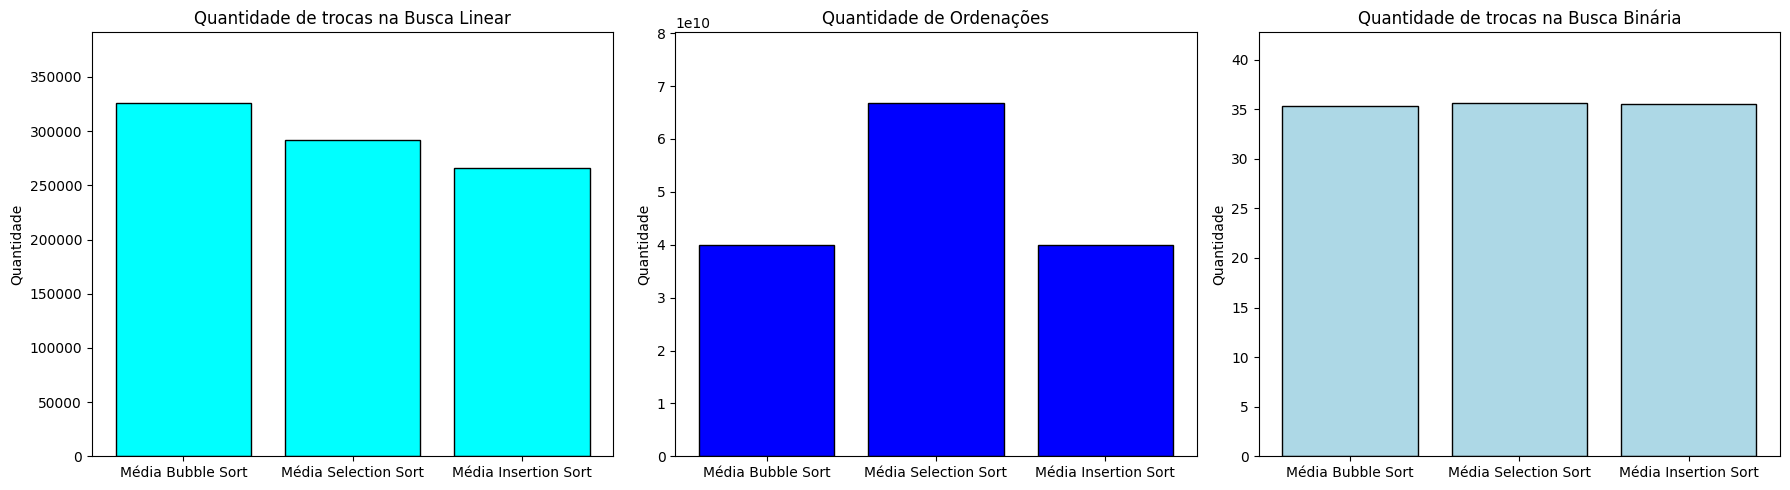
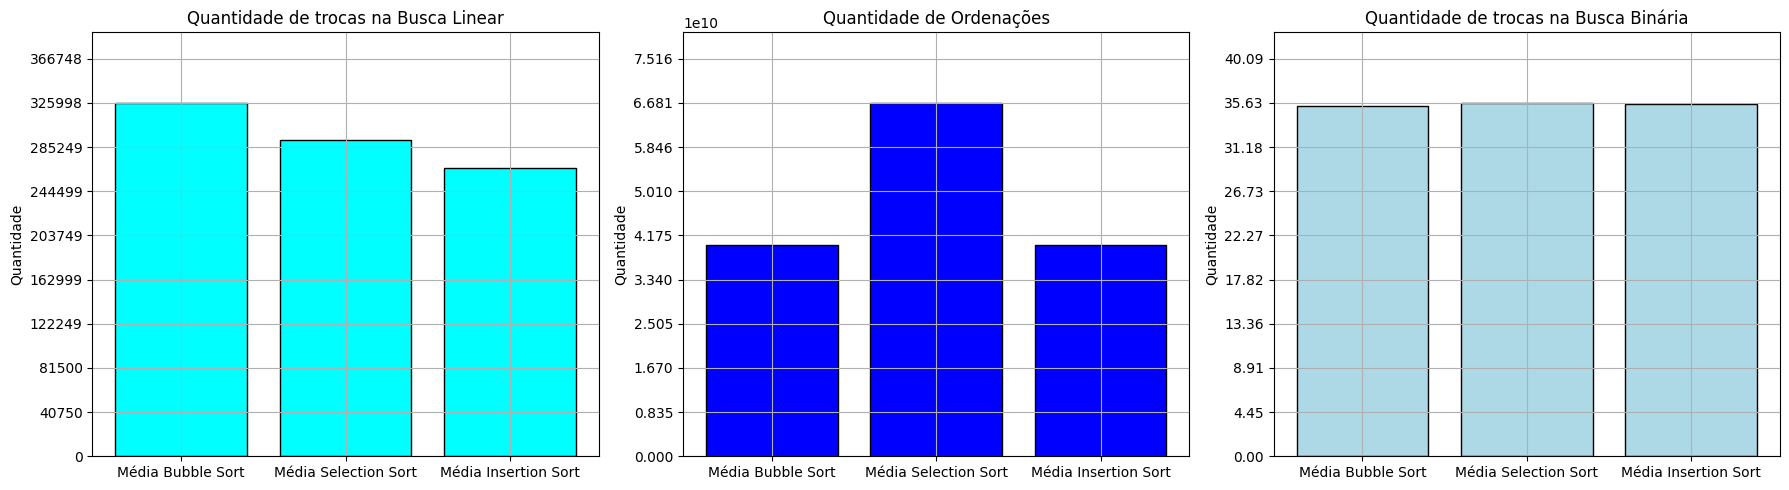
Grid e gráfico 1.6M

diff --git a/estatistica.py b/estatistica.py
@@ -38,7 +38,7 @@ teste_100 = processar_arquivo("testes/Vetor_100k.txt", encoding="utf-16")
 teste_200 = processar_arquivo("testes/Vetor_200k.txt")
 teste_400 = processar_arquivo("testes/Vetor_400k.txt")
 teste_800 = processar_arquivo("testes/Vetor_800k.txt", encoding="utf-16")
-# teste_16M = processar_arquivo("testes/Vetor_1.6M.txt", encoding="utf-16")
+teste_16M = processar_arquivo("testes/Vetor_1,6M.txt")
 
 def plotarGraficos(arquivo, nome_identificador):
     # Média das listas que formam as linhas
@@ -65,6 +65,9 @@ def plotarGraficos(arquivo, nome_identificador):
         ax.set_title(titulos[i])
         ax.set_ylabel("Quantidade")
         ax.set_ylim(0, max(dados[i]) * 1.2)
+        step = max(dados[i] / 8)
+        ax.set_yticks(np.arange(0, max(dados[i]) + step * 2, step))
+        ax.grid()
 
     plt.tight_layout()
     plt.savefig(f'./graficos/grafico_de_medias_{nome_identificador}.png', bbox_inches='tight')
@@ -108,3 +111,4 @@ plotarGraficos(teste_100, "100K")
 plotarGraficos(teste_200, "200K")
 plotarGraficos(teste_400, "400K")
 plotarGraficos(teste_800, "800K")
+plotarGraficos(teste_16M, "1.6M")
